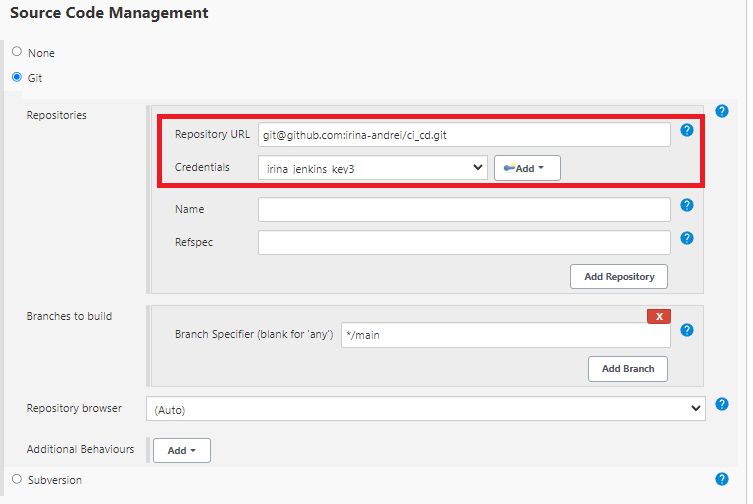
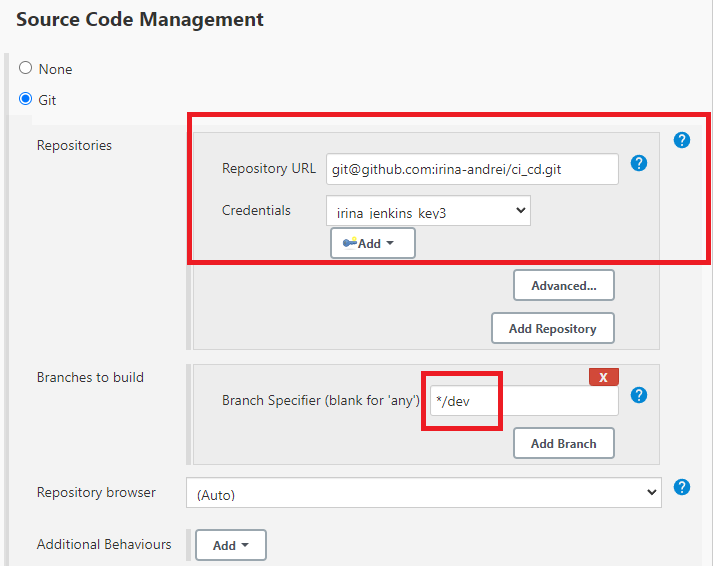
Testing the push

diff --git a/4_ci_cd_pipeline_jenkins.md b/4_ci_cd_pipeline_jenkins.md
@@ -1,0 +1,132 @@
+# Creating a CI/CD Pipeline with Jenkins
+
+![AltText](Images/diagram.png)
+
+We will build our own Jenkins Server with the required environments, and rebuild the Jenkins pipeline up to the deployment of the app (our 4 jobs).
+
+
+
+## Steps:
+
+```DIAGRAM PLACEHOLDER```
+
+![AltText](Images/diagram_overall.png)
+
+
+1. Launch your instance and choose an appropriate name (recommended AMI: `ami-0136ddddd07f0584f`):
+
+![AltText](Images/i1.png)
+
+2. Select the `t2.micro` and the correct Key pair:
+
+![AltText](Images/i2.png)
+
+3. Select your custom VPC. You will also need to configure your instance security group to allow inbound traffic on port 8080 for Jenkins from your IP address:
+
+![AltText](Images/i3.png)
+
+4. Once your Instance is up and running, connect through SSH from Git Bash.
+
+5. Once you are connected, run the appropiate code to install all dependencies:
+
+```shell
+# Update the package manager
+sudo apt update
+sudo apt upgrade -y
+
+# Install Java
+sudo apt install openjdk-11-jdk -y
+
+# Add the Jenkins repository
+wget -q -O - https://pkg.jenkins.io/debian-stable/jenkins.io.key | sudo apt-key add -
+
+sudo apt-key adv --keyserver keyserver.ubuntu.com --recv-keys 5BA31D57EF5975CA
+
+sudo sh -c 'echo deb https://pkg.jenkins.io/debian-stable binary/ > /etc/apt/sources.list.d/jenkins.list'
+
+# Update the package manager again
+sudo apt update
+
+# Install Jenkins
+sudo apt install jenkins -y
+
+# Start the Jenkins service
+sudo systemctl start jenkins
+
+# Enable the Jenkins service
+sudo systemctl enable jenkins
+
+```
+
+
+7. After installing Jenkins, you can access it by typing in the IP address of your instance followed by port 8080 in your browser. For example, http://<instance_ip>:8080. This is what the first page will look like:
+
+![AltText](Images/i4.png)
+
+8. You can get the password using:
+
+```shell
+sudo cat /var/lib/jenkins/secrets/initialAdminPassword
+```
+
+
+8. Choose to 'Select plugins to install':
+
+![AltText](Images/i5.png)
+
+9. The plugins will install one by one:
+
+![AltText](Images/i6.png)
+
+10. Next, you will then need to enter the initial admin password that can be found in `/var/lib/jenkins/secrets/initialAdminPassword` on your instance. If you just want to run it as `admin` without a password, you can skip this step. 
+
+![AltText](Images/i0.png)
+
+11. The Instance Configuration URL:
+
+![AltText](Images/i7.png)
+
+12. You will receive confirmation Jenkins was set up and is ready to use:
+
+![AltText](Images/i8.png)
+
+13. The hole page of Jenkins:
+
+![AltText](Images/i9.png)
+
+14. will also need to add github.com as a Known Host to allow SSH keys on GitHub:
+
+
+```shell
+# from 'ubuntu@ip-10-0-2-137' you can change user to jenkins
+sudo su - jenkins
+# after change, it will show as 'jenkins@ip-10-0-2-137'
+
+# Add github.com as a Known Host to allow SSH keys on GitHub:
+ssh-keyscan github.com >> ~/.ssh/known_hosts
+```
+
+15. nodejs
+
+
+![AltText](Images/i11.png)
+
+14. Once you build your first job, it will appear in the Dashboard:
+
+![AltText](Images/i10.png)
+
+
+
+<br>
+
+Sources:
+
+https://www.knowledgehut.com/blog/devops/install-jenkins-ubuntu#why-use-jenkins?%C2%A0
+
+https://www.letscloud.io/community/how-to-install-jenkins-on-ubuntu-2004
+
+https://dev.to/aws-builders/jenkins-installation-configuration-on-aws-ec2-linux-instance-3npl
+
+https://d1.awsstatic.com/Projects/P5505030/aws-project_Jenkins-build-server.pdf
+
+https://www.jenkins.io/doc/tutorials/tutorial-for-installing-jenkins-on-AWS/

diff --git a/3_jenkins_cd_task.md b/3_jenkins_cd_task.md
@@ -76,7 +76,7 @@ The SDLC is not a one-time process, but rather a continuous cycle that repeats i
 <br>
 
 
-Steps to take:
+### Steps we will take:
 
 
 1. On Jenkins, creating the CI and Merge jobs ('irina-CI' and 'irina-merge') and making sure they are running smoothly.
@@ -109,7 +109,126 @@ On instance: Security Group to allow Jenkins IP through port8080
 <br>
 
 
+## The CD Task Steps (3rd Job - 'CD'):
 
+1.
+
+![AltText](Images/cd1.png)
+
+2.
+
+
+![AltText](Images/cd7.png)
+
+3.
+
+![AltText](Images/cd2.png)
+
+4.
+
+![AltText](Images/cd3.png)
+
+5.
+
+![AltText](Images/cd4.png)
+
+6.
+
+![AltText](Images/cd5.png)
+
+7.
+
+![AltText](Images/cd6.png)
+
+```shell
+# we will SSH into EC2 and bypass the manual authentification
+# get the app code
+
+#install nginx and test using the public IP address
+
+# install required dependencies
+# cd app
+# npm install
+# sudo kill npm all
+# npm start - this will run in the background (or use pm2: kill pm2 and then relaunch pm2)
+
+
+rsync -avz -e "ssh -o StrictHostKeyChecking=no" app ubuntu@PUBLIC_IP_ADDRESS:/home/ubuntu
+
+ssh -o "StrictHostKeyChecking=no" ubuntu@PUBLIC_IP_ADDRESS <<EOF
+	sudo apt update -y
+    sudo apt upgrade -y
+    sudo apt install nginx -y
+    sudo systemctl restart nginx
+    sudo systemctl enable nginx
+    
+EOF
+```
+
+<br>
+
+
+
+## The CD App Task Steps (4rd Job - 'CD-app'):
+
+1.
+
+![AltText](Images/app1.png)
+
+2.
+
+![AltText](Images/app2.png)
+
+3.
+
+![AltText](Images/app3.png)
+
+4.
+
+![AltText](Images/app4.png)
+
+5.
+
+![AltText](Images/app5.png)
+
+6.
+
+![AltText](Images/app6.png)
+
+
+```shell
+# we will SSH into EC2 and bypass the manual authentification
+# get the app code
+# install required dependencies
+# cd app
+# npm install
+# sudo kill npm all
+# npm start - this will run in the background (or use pm2: kill pm2 and then relaunch pm2)
+
+
+
+ssh -A -o "StrictHostKeyChecking=no" ubuntu@54.155.187.144 <<EOF
+	# installing Node.js
+	curl -sL https://deb.nodesource.com/setup_12.x | sudo -E bash -
+	sudo apt install nodejs -y
+ 
+	# installing pm2 globally
+	sudo npm install pm2 -g
+ 	
+    # going into app folder
+	cd app
+ 
+	# installing npm
+	npm install
+ 
+	# starting the Node.js application
+    pm2 start app.js
+ 
+	pm2 restart app.js
+
+```
+
+<br>
 
 Sources:
 

diff --git a/1_jenkins.md b/1_jenkins.md
@@ -47,7 +47,7 @@ You can see everything to do with your Job.
 <br>
 
 
-## Steps for creating a Job and setting up WebHook:
+## Steps for creating a Job and setting up WebHook (1st Job - 'CI'):
 
 1. Initialise a new Job: 
 
@@ -57,11 +57,11 @@ You can see everything to do with your Job.
 
 ![AltText](Images/name.png)
 
-3. Write a Description and Select Discard old builds:
+3. Write a Description:
 
 ![AltText](Images/description.png)
 
-4. Enter the IP Address for the repo:
+4. Select Discard old builds and enter the IP Address for the repo:
 
 ![AltText](Images/github.png)
 
@@ -69,13 +69,13 @@ You can see everything to do with your Job.
 
 ![AltText](Images/add_webhook.png)
 
-6. Enter the SSH url for the repo and the key to access:
+6. Restrict where the project can be run:
+
+![AltText](Images/restrict.png)
+
+7. Enter the SSH url for the repo and the key to access, as well as the branch (we will work on 'dev' until the build passes the tests):
 
 ![AltText](Images/github_repo.png)
-
-7. In the Office 365 Connector section, select:
-
-![AltText](Images/node.png)
 
 8. In Build Trigger, tick the 'GitHub hook trigger for GITScm polling' box:
 
@@ -85,7 +85,7 @@ You can see everything to do with your Job.
 
 ![AltText](Images/npm.png)
 
-10. Add 'Execute shell' Commands, then press Save:
+10. Add 'Execute shell' Commands:
 
 ```shell
 cd app
@@ -94,6 +94,10 @@ npm test
 ```
 
 ![AltText](Images/execute.png)
+
+11. Add Post Build setting, to trigger the next job (will show error if that job hasn't been created yet):
+
+![AltText](Images/post_build_action.png)
 
 11. After you saved it, press Build Now to run:
 

diff --git a/2_jenkins_ci_task.md b/2_jenkins_ci_task.md
@@ -1,0 +1,53 @@
+# Jenkins CI Task
+
+![AltText](Images/diagram.png)
+
+Our current CI setup on Jenkins has one major flaw. The build is currently started and the tests are run on the main branch of the repository. This means that if the tests fail the code still exists on the main branch (which is only supposed to contain working code).
+
+We need to reconfigure the job so that the code is tested on a different branch (dev) and automatically merged with the main branch if the tests pass.
+
+<br>
+
+### Steps (2nd Job - 'CI-merge'):
+
+1. 
+
+![AltText](Images/merge_name_and_discard.png)
+
+2. 
+
+![AltText](Images/github.png)
+
+3. Restrict where the project can be run:
+
+![AltText](Images/restrict.png)
+
+4. Configure your job to checkout code from the dev branch rather than the main branch.
+
+![AltText](Images/branch.png)
+
+5. Choose the 'main' branch to merge to:
+
+![AltText](Images/additional.png)
+
+6. Add SSH credentials:
+
+![AltText](Images/credentials_ssh.png)
+
+3. In the Git Publisher plugin, ticking the box and adding these settings will result in pushing the main branch to Github if the tests pass:
+
+![AltText](Images/git_publisher.png)
+
+4. After a push to the 'dev' branch of the repo, the 2 jobs ('CI' & 'CI-merge') will run and both 'main' and 'dev' branches will be updated on GitHub: 
+
+![AltText](Images/github_branches.png)
+
+
+<br>
+
+Sources: 
+
+[Jenkins Git Merges](https://andrewtarry.com/posts/jenkins_git_merges/)
+
+
+
